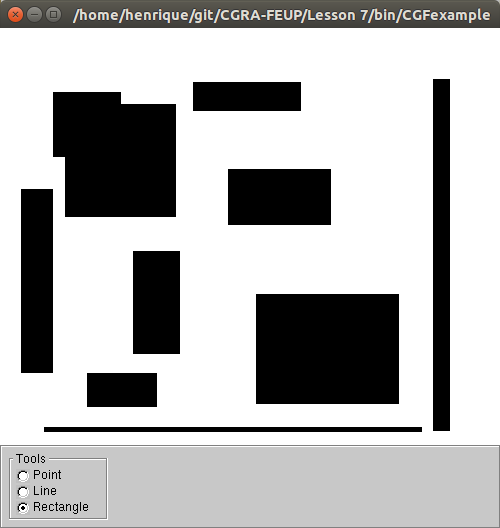
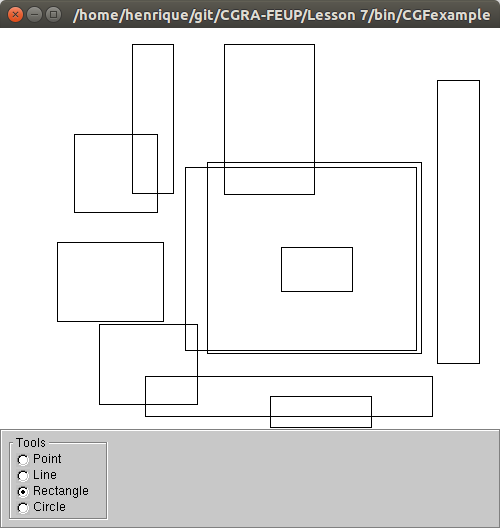
Added TP7

diff --git a/Lesson 7/src/CircleTool.cpp b/Lesson 7/src/CircleTool.cpp
@@ -1,0 +1,80 @@
+#include "CircleTool.h"
+
+#include <cmath>
+#include <algorithm>
+
+void CircleTool::mousePressed(int x, int y) {
+	// Reset start coordinates and active (current) coordinates
+	sx = x;
+	sy = y;
+	currx = x;
+	curry = y;
+
+	// Activate XOR mode with inverted color to enable rubber-banding
+	canvas->setXORMode();
+	canvas->setColor(255);
+
+	// Draw (one pixel)
+	drawCircle(sx, sy, currx, curry);
+}
+
+void CircleTool::mouseDragged(int x, int y) {
+	// Redraw previous circle (in XOR mode, will invert the color of all pixels, effectively erasing it)
+	drawCircle(sx, sy, currx, curry);
+
+	// Update current coordinates
+	currx = x;
+	curry = y;
+
+	// Draw new circle
+	drawCircle(sx, sy, currx, curry);
+}
+
+void CircleTool::mouseReleased(int x, int y) {
+	// Redraw previous circle to erase it
+	drawCircle(sx, sy, currx, curry);
+
+	// Set normal mode and color to draw final circle
+	canvas->setNormalMode();
+	canvas->setColor(0);
+
+	// draw final circle
+	drawCircle(sx, sy, x, y);
+}
+
+int CircleTool::getRadius(int xi, int yi, int xf, int yf) {
+	int dx = abs(xf - xi);
+	int dy = abs(yf - yi);
+
+	return sqrt(dy * dy + dx * dx);
+}
+
+void CircleTool::drawCircle(int xi, int yi, int xf, int yf) {
+	// get radius
+	int r = getRadius(xi, yi, xf, yf);
+
+	int x = 0, y = r, p = 1 - r;
+	int incE = 3, incSE = 5 - 2 * r;
+
+	canvas->setPixel(x, y);
+	while (y > x) {
+		if (p < 0) {
+			p = p + incE;
+			incE = incE + 2;
+			incSE = incSE + 2;
+			x++;
+		} else {
+			p = p + incSE;
+			incE = incE + 2;
+			incSE = incSE + 4;
+			x++, y--;
+		}
+
+		for (int i = 1; i >= -1; i -= 2) {
+			for (int j = 1; j >= -1; j -= 2) {
+				canvas->setPixel(xi + i * x, yi + j * y);
+				canvas->setPixel(xi + i * y, yi + j * x);
+			}
+		}
+	}
+}

diff --git a/Lesson 7/src/LineTool.cpp b/Lesson 7/src/LineTool.cpp
@@ -1,5 +1,7 @@
 #include "LineTool.h"
 
+#include <algorithm>
+
 void LineTool::mousePressed(int x, int y) {
 	// Reset start coordinates and active (current) coordinates
 	sx = x;
@@ -40,17 +42,29 @@ void LineTool::mouseReleased(int x, int y) {
 }
 
 void LineTool::drawLine(int xi, int yi, int xf, int yf) {
-	// draws a line; 
-	// simple flawed version, only draws in quadrants 1 and 4, 
-	// and iterates over x, meaning there will be gaps on octants 2 and 7
-	// where abs(delta y) > abs(delta x)
+	int a = abs(xf - xi);
+	int b = abs(yf - yi);
 
-	float m;
-	if (xf != xi)
-		m = (float) (yf - yi) / (float) (xf - xi);
-	else
-		m = 0;
+	bool invertXY = false;
+	if (b > a) {
+		std::swap(xi, yi);
+		std::swap(xf, yf);
+		std::swap(a, b);
+		invertXY = true;
+	}
 
-	for (int x = xi; x <= xf; x++)
-		canvas->setPixel(x, yi + (x - xi) * m);
+	if (xf < xi)
+		std::swap(xi, xf), std::swap(yi, yf);
+
+	// do not touch this
+	int inc2 = 2 * b;
+	int d = inc2 - a;	// d = 2*b – a;
+	int inc1 = d - a;	// inc1 = 2*(b-a);
+
+	int x = xi, y = yi;
+	for (int i = 0; i < a; i++, x++) {
+		invertXY ? canvas->setPixel(y, x) : canvas->setPixel(x, y);
+
+		d >= 0 ? yi > yf ? y-- : y++, d += inc1 : d += inc2;
+	}
 }

diff --git a/Lesson 7/src/RectTool.cpp b/Lesson 7/src/RectTool.cpp
@@ -1,5 +1,7 @@
 #include "RectTool.h"
 
+#include <algorithm>
+
 void RectTool::mousePressed(int x, int y) {
 	// Reset start coordinates and active (current) coordinates
 	sx = x;
@@ -31,7 +33,7 @@ void RectTool::mouseReleased(int x, int y) {
 	// Redraw previous rectangle to erase it
 	drawRect(sx, sy, currx, curry);
 
-	// Set normal mode and color to draw final line
+	// Set normal mode and color to draw final rectangle
 	canvas->setNormalMode();
 	canvas->setColor(0);
 
@@ -41,21 +43,22 @@ void RectTool::mouseReleased(int x, int y) {
 
 void RectTool::drawRect(int xi, int yi, int xf, int yf) {
 	// y correction
-	if (yi > yf) {
-		int temp = yi;
-		yi = yf;
-		yf = temp;
-	}
+	if (yi > yf)
+		std::swap(yi, yf);
 
 	// x correction
-	if (xi > xf) {
-		int temp = xi;
-		xi = xf;
-		xf = temp;
+	if (xi > xf)
+		std::swap(xi, xf);
+
+	// horizontal borders
+	for (int i = xi; i <= xf; i++) {
+		canvas->setPixel(i, yi);
+		canvas->setPixel(i, yf);
 	}
 
-	// drawing pixel by pixel
-	for (int i = yi; i <= yf; i++)
-		for (int j = xi; j <= xf; j++)
-			canvas->setPixel(j, i);
+	// vertical borders
+	for (int i = yi + 1; i < yf; i++) {
+		canvas->setPixel(xi, i);
+		canvas->setPixel(xf, i);
+	}
 }

diff --git a/Lesson 7/src/CanvasInterface.cpp b/Lesson 7/src/CanvasInterface.cpp
@@ -5,6 +5,7 @@
 #include "PointTool.h"
 #include "LineTool.h"
 #include "RectTool.h"
+#include "CircleTool.h"
 
 void CanvasInterface::convertCoords(int *x, int *y) {
 	// Converts GLUI coordinate space to viewport/texture coordinate space
@@ -41,6 +42,7 @@ void CanvasInterface::initGUI() {
 	tools[0] = new PointTool(((CanvasScene*) scene)->canvas);
 	tools[1] = new LineTool(((CanvasScene*) scene)->canvas);
 	tools[2] = new RectTool(((CanvasScene*) scene)->canvas);
+	tools[3] = new CircleTool(((CanvasScene*) scene)->canvas);
 	// you may add more tools here, provided that you:
 	//	 - adjust the value of TOOL_SIZE in the header file 
 	//	 - add "includes" to the corresponding tools in the top of this file
@@ -55,6 +57,7 @@ void CanvasInterface::initGUI() {
 	addRadioButtonToGroup(toolRG, "Point");
 	addRadioButtonToGroup(toolRG, "Line");
 	addRadioButtonToGroup(toolRG, "Rectangle");
+	addRadioButtonToGroup(toolRG, "Circle");
 	// if you add more tools above, you should add a radio button in the same order here
 
 	// select the radio button corresponding to the default tool

diff --git a/Lesson 7/src/CircleTool.h b/Lesson 7/src/CircleTool.h
@@ -2,22 +2,22 @@
 
 #include "CanvasTool.h"
 
-class LineTool: public CanvasTool {
+class CircleTool: public CanvasTool {
 public:
-	LineTool(CGFcanvas *cnv) :
+	CircleTool(CGFcanvas *cnv) :
 			CanvasTool(cnv) {
 		sx = sy = currx = curry = -1;
 	}
 
-	virtual ~LineTool() {
-
+	virtual ~CircleTool() {
 	}
 
 	virtual void mousePressed(int x, int y);
 	virtual void mouseDragged(int x, int y);
 	virtual void mouseReleased(int x, int y);
 
-	virtual void drawLine(int xi, int yi, int xf, int yf);
+	virtual int getRadius(int xi, int yi, int xf, int yf);
+	virtual void drawCircle(int xi, int yi, int xf, int yf);
 
 	int sx, sy, currx, curry;
 };

diff --git a/Lesson 7/src/CanvasScene.cpp b/Lesson 7/src/CanvasScene.cpp
@@ -14,6 +14,8 @@ CanvasScene::CanvasScene() {
 	// replace base scene camera by a canvas camera 
 	// (orthographic, pixel-accurate units)
 	activeCamera = new Canvascamera();
+
+	canvas = NULL;
 }
 
 void CanvasScene::init() {

diff --git a/Lesson 7/src/CanvasInterface.h b/Lesson 7/src/CanvasInterface.h
@@ -5,7 +5,7 @@
 #include "CanvasTool.h"
 
 // Adjust below for adding more tools
-const int TOOL_SIZE = 3;
+const int TOOL_SIZE = 4;
 
 class CanvasInterface: public CGFinterface {
 public:

diff --git a/Lesson 7/src/RectTool.h b/Lesson 7/src/RectTool.h
@@ -6,6 +6,7 @@ class RectTool: public CanvasTool {
 public:
 	RectTool(CGFcanvas *cnv) :
 			CanvasTool(cnv) {
+		sx = sy = currx = curry = -1;
 	}
 
 	virtual ~RectTool() {

diff --git a/Lesson 7/src/CanvasScene.h b/Lesson 7/src/CanvasScene.h
@@ -13,7 +13,6 @@ public:
 	~CanvasScene();
 
 	CGFcanvas *canvas;
-
 };
 
 #endif
